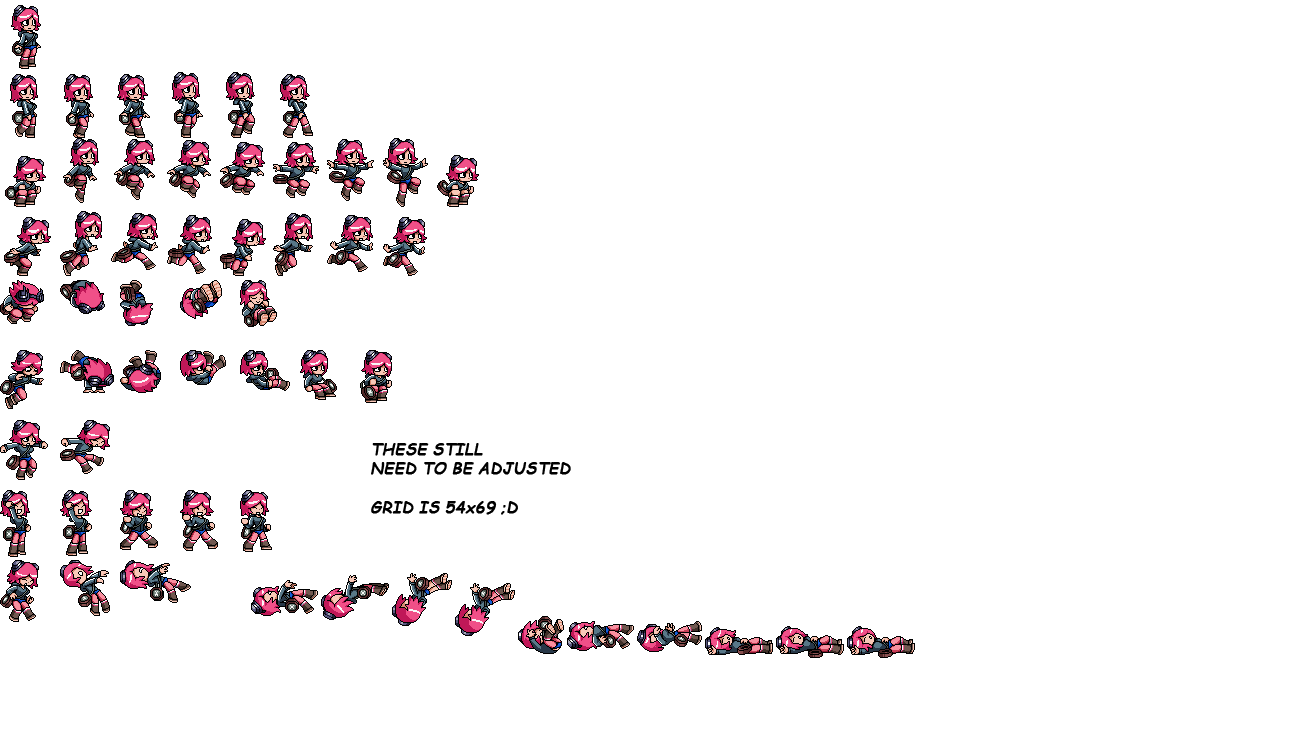
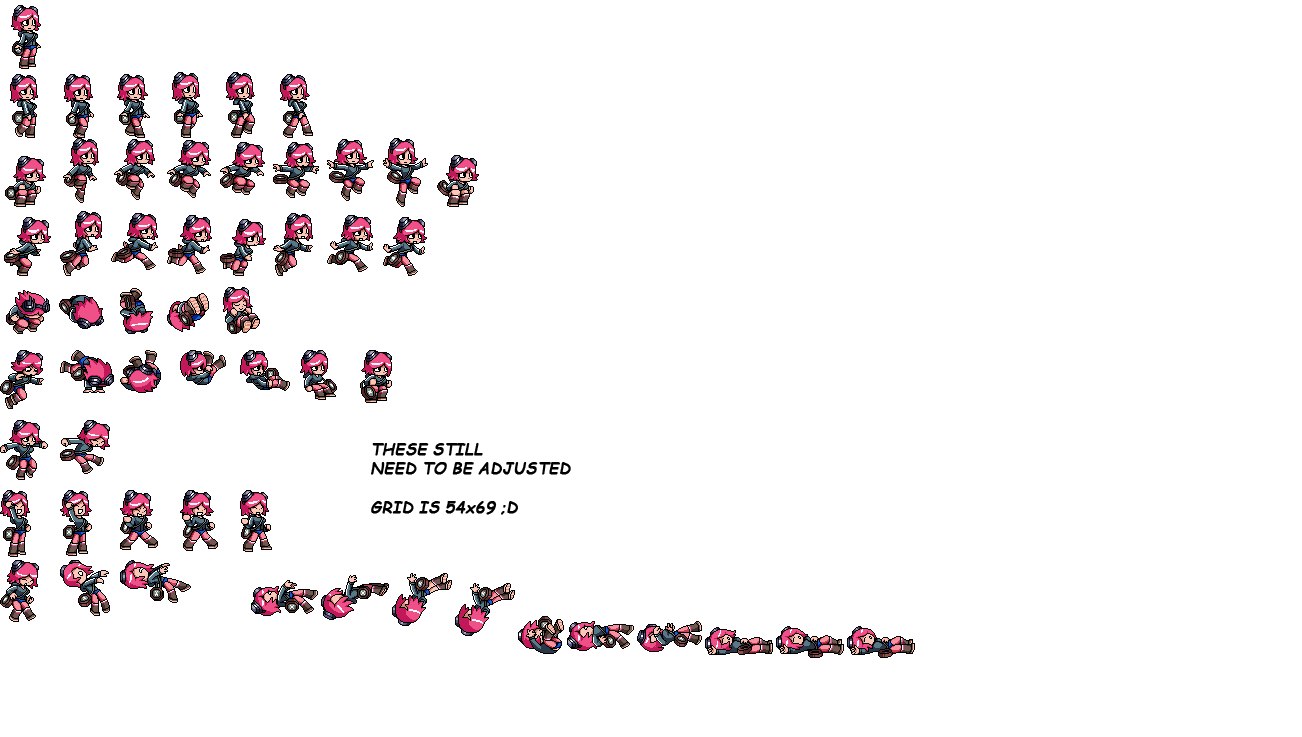
Added animation for double jump and fixed jumping one

Changed region(s): [[0.0, 0.3745, 0.2151, 0.4681]]

diff --git a/Motor2D/j1Player.cpp b/Motor2D/j1Player.cpp
@@ -192,19 +192,17 @@ void j1Player::CreateAnimationPushBacks()
 	jump.PushBack({ 270, 138, 54, 69 });
 	jump.PushBack({ 324, 138, 54, 69 });
 	jump.PushBack({ 378, 138, 54, 69 });
-	jump.PushBack({ 437, 138, 54, 69 });
-	jump.PushBack({ 0, 0, 54, 69 });
-	jump.loop = false;
-	jump.speed = 0.4f;
+	jump.loop = true;
+	jump.speed = 0.5f;
 
 	//Double Jump animation
-	double_jump.PushBack({ 0, 280, 54, 69 });
-	double_jump.PushBack({ 0, 280, 54, 69 });
-	double_jump.PushBack({ 0, 280, 54, 69 });
-	double_jump.PushBack({ 0, 280, 54, 69 });
-	double_jump.PushBack({ 0, 280, 54, 69 });
+	double_jump.PushBack({ 0, 276, 54, 69 });
+	double_jump.PushBack({ 54, 276, 54, 69 });
+	double_jump.PushBack({ 108, 276, 54, 69 });
+	double_jump.PushBack({ 162, 276, 54, 69 });
+	double_jump.PushBack({ 216, 276, 54, 69 });
 	double_jump.loop = true;
-	double_jump.speed = 0.4f;
+	double_jump.speed = 0.9f;
 
 	//Win animation
 	win.PushBack({  0,  490, 54, 69});
@@ -216,7 +214,7 @@ void j1Player::CreateAnimationPushBacks()
 	win.speed = 0.3f;
 
 	//Falling animation
-	falling.PushBack({ 378, 138, 54, 69 });
+	fall.PushBack({ 378, 138, 54, 69 });
 
 	//Damaged animation
 	damaged.PushBack({ 0, 420, 54, 69 });
@@ -262,9 +260,13 @@ void j1Player::SetAnimations()
 	if (App->input->GetKey(SDL_SCANCODE_D) == KEY_REPEAT && App->input->GetKey(SDL_SCANCODE_A) == KEY_REPEAT)
 		current_animation = &idle;
 	//Jumping animation
-	if (jumps_left == 1)
+	if (App->input->GetKey(SDL_SCANCODE_SPACE) == KEY_DOWN && jumps_left == 1) //reset the jump animation each time a regular (not double) jump is performed
+		jump.Reset();
+	if (jumps_left == 1 && speed.y < 0) //set animation to regular jump if only a jump has been depleted
 		current_animation = &jump;
-	if (jumps_left == 0)
+	if (jumps_left == 1 && speed.y > 0) //set animation to fall if the player is still in a regular jump, and is moving downwards
+		current_animation = &fall;
+	if (jumps_left == 0) // set animation to double jump if there's no jumps left
 		current_animation = &double_jump;
 		
 	//Victory animation

diff --git a/Motor2D/j1Player.h b/Motor2D/j1Player.h
@@ -57,7 +57,7 @@ public:
 	Animation jump;
 	Animation double_jump;
 	Animation win;
-	Animation falling;
+	Animation fall;
 	Animation damaged;
 	Animation death;
 
